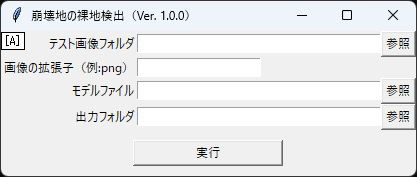
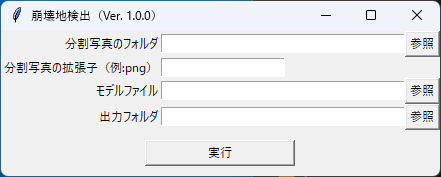
コードと画像の修正
・崩壊地検出アプリのGUI修正
・画面画像の変更

diff --git a/EnsembleSeg.py b/EnsembleSeg.py
@@ -69,7 +69,7 @@ def Evaluation(ModelPath, TestImgPathList, ImgSize):
         ImgData = ReadImg(TestXPath)
         ImgData = cv2.resize(ImgData, (ImgSize[1], ImgSize[0]), interpolation=cv2.INTER_NEAREST)
         ImgData = ImgData.astype('float32') / 255.
-        PredOneHot = Model.predict(np.array([ImgData]))
+        PredOneHot = Model.predict(np.array([ImgData]), verbose=0)
 
         LikelihoodList.append(PredOneHot[0])
 
@@ -169,14 +169,14 @@ def OnRun():
         messagebox.showerror('エラー', str(e))
 
 Root = tk.Tk()
-Root.title('崩壊地の裸地検出（Ver. 1.0.0）')
+Root.title('崩壊地検出（Ver. 1.0.0）')
 
-tk.Label(Root, text='テスト画像フォルダ').grid(row=0, column=0, sticky='e')
+tk.Label(Root, text='分割写真のフォルダ').grid(row=0, column=0, sticky='e')
 EntryImgDir = tk.Entry(Root, width=40)
 EntryImgDir.grid(row=0, column=1)
 tk.Button(Root, text='参照', command=lambda: SelectDir(EntryImgDir)).grid(row=0, column=2)
 
-tk.Label(Root, text='画像の拡張子（例:png）').grid(row=1, column=0, sticky='e')
+tk.Label(Root, text='分割写真の拡張子（例:png）').grid(row=1, column=0, sticky='e')
 EntryExt = tk.Entry(Root, width=20)
 EntryExt.grid(row=1, column=1, sticky='w')
 
